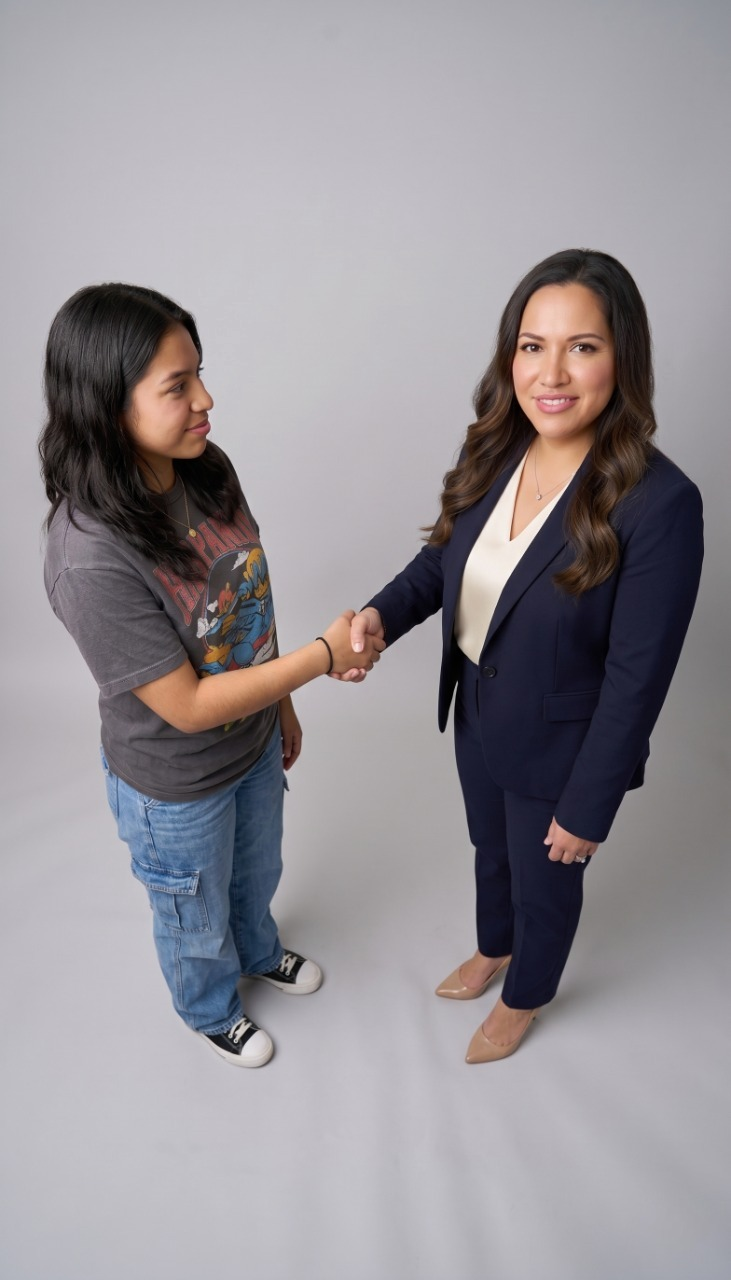
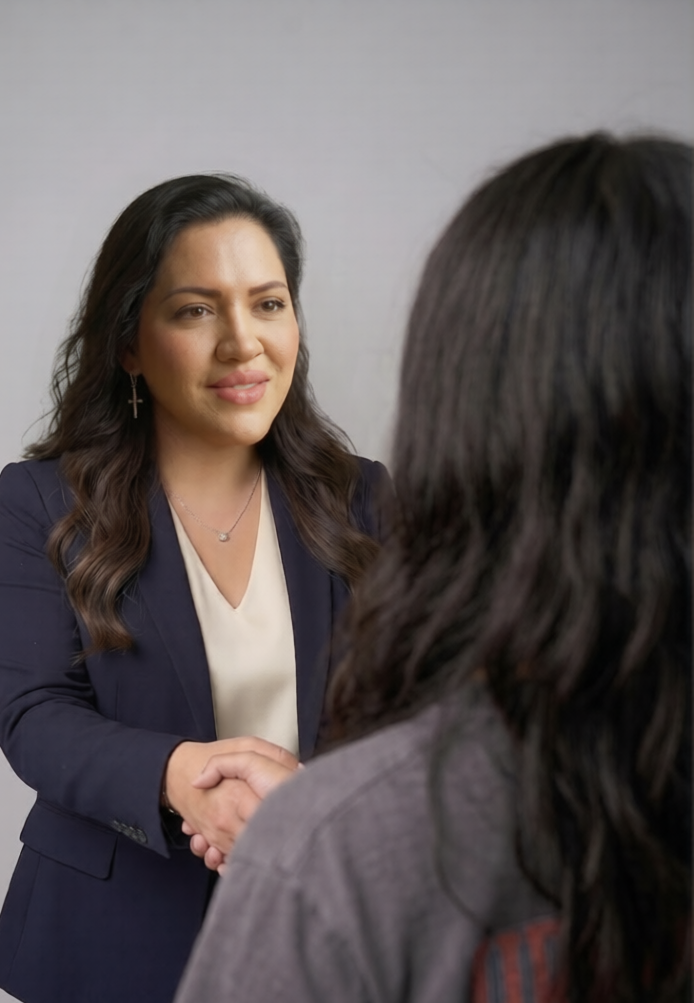
Update mariana about image and replace hero animation with static gradient

diff --git a/src/App.jsx b/src/App.jsx
@@ -142,11 +142,7 @@ export default function App() {
 
 {/*  */}
 <section className="hero">
-  <div className="hero-lava-lamp" style={{position: 'absolute', top: 0, left: 0, right: 0, bottom: 0, zIndex: 1, overflow: 'hidden', background: 'var(--plum)'}}>
-    <div className="blob blob-1" style={{position: 'absolute', borderRadius: '50%', filter: 'blur(90px)', opacity: 0.6, width: '50vw', height: '50vw', background: 'var(--purple)', top: '-10%', left: '-10%', animation: 'floatLava1 20s ease-in-out infinite'}}></div>
-    <div className="blob blob-2" style={{position: 'absolute', borderRadius: '50%', filter: 'blur(90px)', opacity: 0.6, width: '40vw', height: '40vw', background: 'var(--lavender)', bottom: '-20%', right: '40%', animation: 'floatLava2 25s ease-in-out infinite'}}></div>
-    <div className="blob blob-3" style={{position: 'absolute', borderRadius: '50%', filter: 'blur(90px)', opacity: 0.6, width: '35vw', height: '35vw', background: '#5a2a62', top: '30%', left: '60%', animation: 'floatLava3 22s ease-in-out infinite'}}></div>
-  </div>
+  <div className="hero-bg-gradient" style={{position: 'absolute', top: 0, left: 0, right: 0, bottom: 0, zIndex: 1, background: 'linear-gradient(135deg, var(--plum) 0%, var(--purple) 60%, var(--lavender) 100%)'}}></div>
   <div className="hero-text">
     <p className="hero-eyebrow">Derecho de Inmigración · Houston, Texas · SHEV Law Group</p>
 

diff --git a/src/index.css b/src/index.css
@@ -1066,23 +1066,3 @@ body, section, .service-card, .testimonial-card, .process-step, .lead-form, inpu
     width: 140px;
   }
 }
-@keyframes floatLava1 {
-  0% { transform: translate(0, 0) scale(1); }
-  33% { transform: translate(15vw, 15vh) scale(1.3); }
-  66% { transform: translate(-10vw, 20vh) scale(0.9); }
-  100% { transform: translate(0, 0) scale(1); }
-}
-
-@keyframes floatLava2 {
-  0% { transform: translate(0, 0) scale(1.1); }
-  33% { transform: translate(-20vw, -15vh) scale(0.8); }
-  66% { transform: translate(10vw, -25vh) scale(1.4); }
-  100% { transform: translate(0, 0) scale(1.1); }
-}
-
-@keyframes floatLava3 {
-  0% { transform: translate(0, 0) scale(0.9); }
-  33% { transform: translate(-15vw, 20vh) scale(1.5); }
-  66% { transform: translate(25vw, -10vh) scale(0.7); }
-  100% { transform: translate(0, 0) scale(0.9); }
-}
